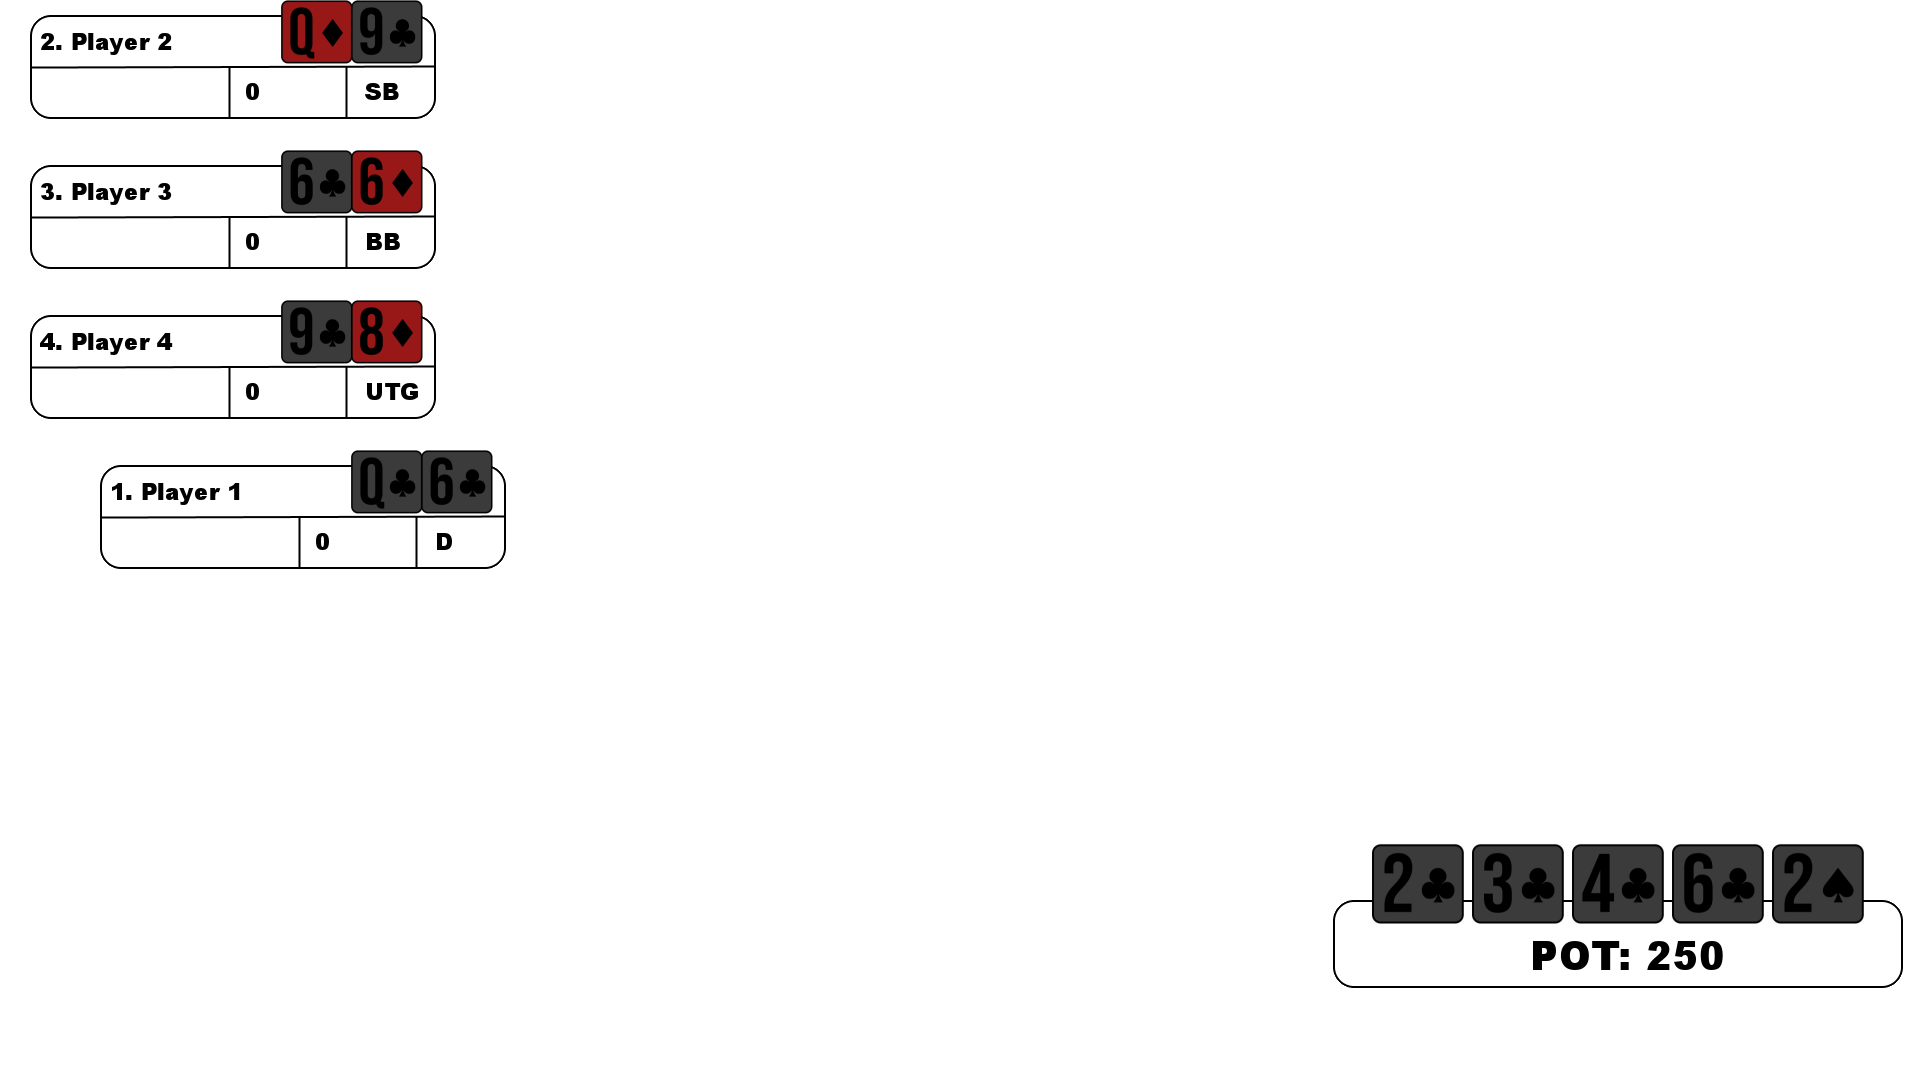
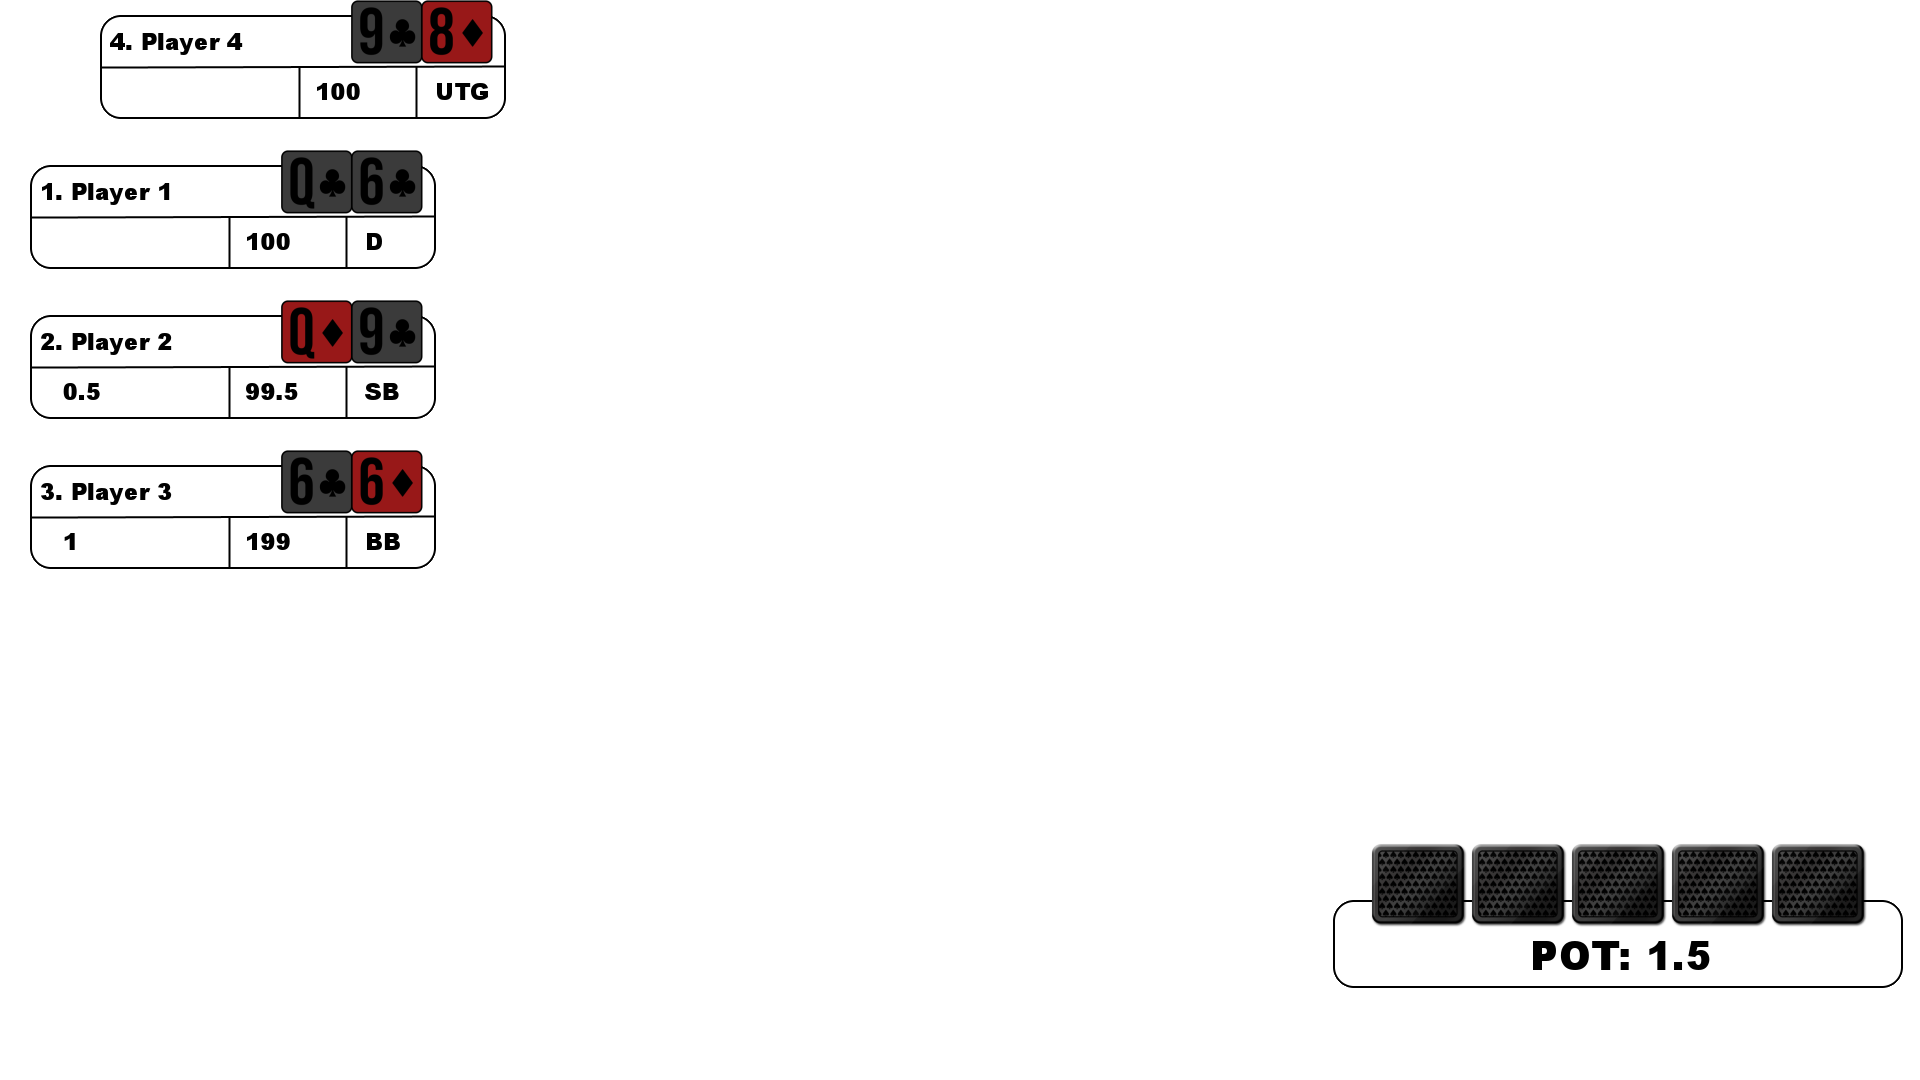
edit stack sizes THIS IS 1st STREAM VERSION OF CODE

diff --git a/stream.js b/stream.js
@@ -36,6 +36,7 @@ const Menu = Object.freeze({
   EDIT_STACKS: 3,
   VIEW_PLAYERS: 4,
   START_HANDS: 5,
+  ADD_CHIPS: 6
 });
 
 let players = [];
@@ -84,6 +85,11 @@ async function main() {
   
       console.log(players);
       console.log();
+    } else if (selector == Menu.ADD_CHIPS) {
+      selector = Menu.HOME_PAGE;
+      printPlayersAndStacks();
+      editPlayerStacks();
+
     } else if (selector == Menu.START_HANDS) {
       selector = Menu.HOME_PAGE;
       const buttonStartingPosition = getButton();
@@ -528,6 +534,35 @@ function editPlayer() {
   }
 }
 
+function editPlayerStacks() {
+  while (1) {
+    seatNumber = readlineSync.question("Enter seat number to edit: ");
+    if (seatNumber < 1 || seatNumber > 8) {
+      console.log(`Invalid seat number:`);
+      continue;
+    }
+
+    console.log();
+    const confirm = readlineSync
+      .question(`Change ${players[seatNumber - 1].name} stack of ${players[seatNumber-1].stackSize}? \n Y || N? \n`)
+      .toLowerCase();
+    if (confirm == "y") {
+
+      let newStack = parseInt(readlineSync.question("Enter New Stack Size: "))
+      while (isNaN(newStack)) {
+        newStack = parseInt(readlineSync.question(`Invalid input, please put number of new stack: `))
+      }
+
+
+
+      players[seatNumber - 1].stackSize = newStack
+      console.log("Stack Changed!");
+      printPlayersAndStacks();
+    }
+    break;
+  }
+}
+
 function populatePlayerStacks() {
   for (let i = 0; i < players.length; i++) {
     let stackSize = parseInt(readlineSync.question(`Seat ${i + 1}. ${players[i].name} Stack: `));
@@ -573,15 +608,15 @@ function promptUserForOptions() {
   console.log(`Choose actions`);
   console.log();
   console.log(
-    `1. ADD PLAYERS 2. EDIT PLAYERS\n3. EDIT STACKS 4. VIEW PLAYERS \n5. START HAND`
+    `1. ADD PLAYERS 2. EDIT PLAYERS\n3. EDIT STACKS 4. VIEW PLAYERS \n5. START HAND 6. ADD CHIPS`
   );
   let input = 0;
-  while (input != 1 && input != 2 && input != 3 && input != 4 && input != 5) {
-    input = readlineSync.question("Enter 1-5: ");
-    if (input == 1 || input == 2 || input == 3 || input == 4 || input == 5) {
+  while (input != 1 && input != 2 && input != 3 && input != 4 && input != 5 && input != 6) {
+    input = readlineSync.question("Enter 1-6: ");
+    if (input == 1 || input == 2 || input == 3 || input == 4 || input == 5 || input == 6)  {
       selector = input;
     } else {
-      console.log("Invalid input. Please enter 1 - 5\n");
+      console.log("Invalid input. Please enter 1 - 6\n");
     }
   }
 }
